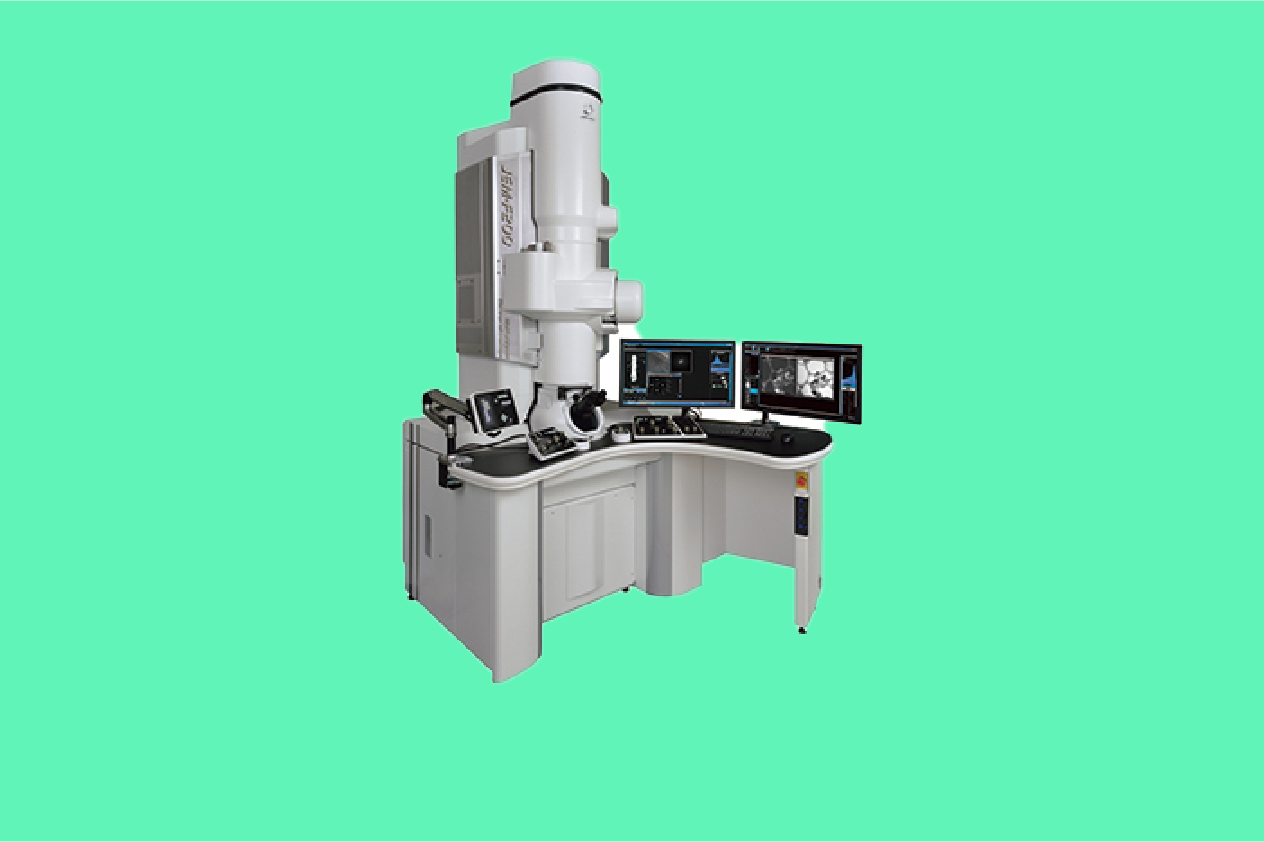
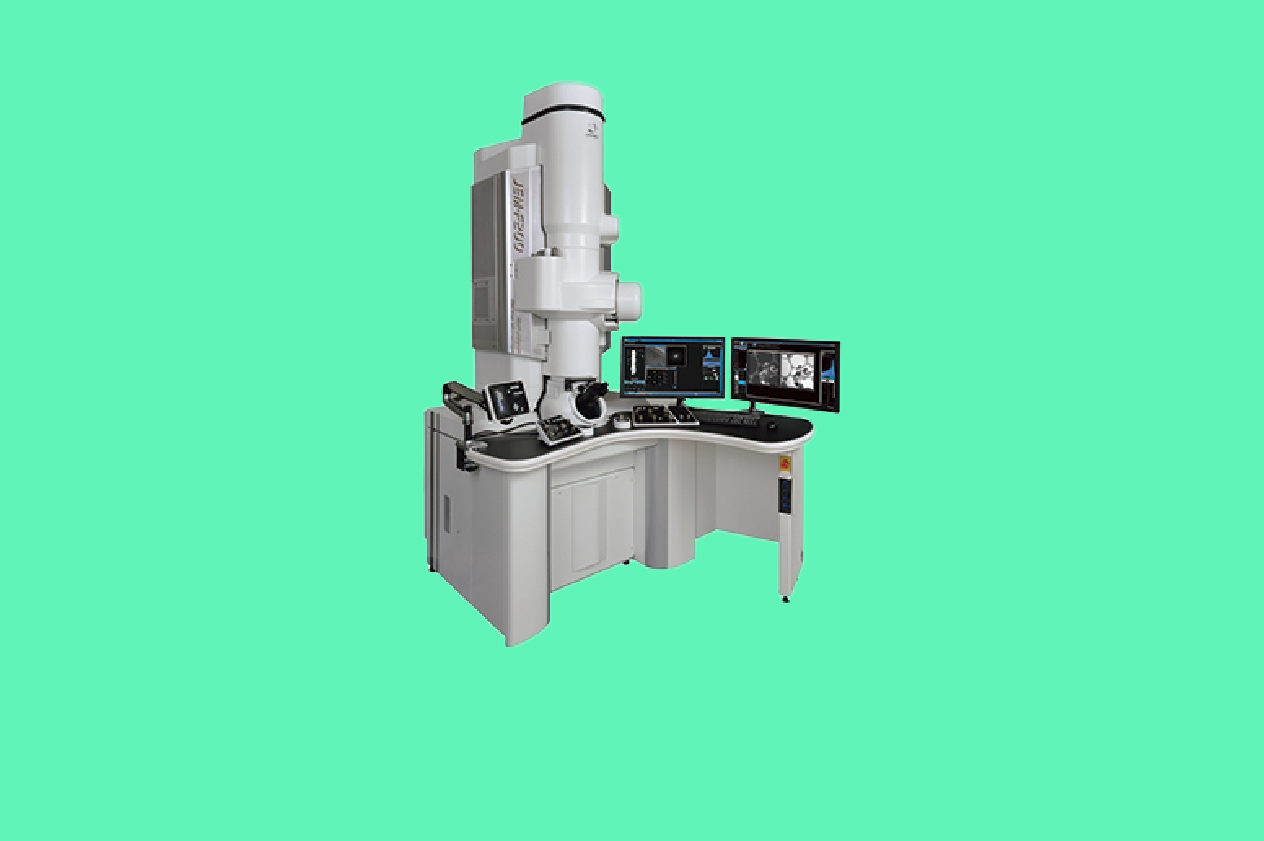
carousel nav bar modifications

Changed region(s): [[0.3085, 0.0618, 0.7097, 0.8038], [0.0, 0.9893, 1.0, 1.0]]

diff --git a/src/pages/lab-devices-page.js b/src/pages/lab-devices-page.js
@@ -78,8 +78,8 @@ const LabDevicesPage = () => {
           devicetwo="Transmission Electron Microscope"
           model="JEOL JSM 6510 lv"
           modeltwo="JEOL JEM-2100"
-          description="It is used to check sample surfaces and gives high-quality and clear stereoscopic image. The magnification capacity reaches 300000 times, it works under high discharge, and it can work under low discharge."
-          descriptiontwo="It is a microscopic technique in which a bundle of electrons is used that is executed through a super-thin sample, which leads to the appearance of an image that is subject to an amplification, enlargement and focus process on imaging devices such as fluorescent screens or a photographic film or to be measured"
+          description="It is used to inspect the surfaces of samples and give a high-quality and clear stereoscopic image. The magnification capacity reaches 300,000 times, it works under high vacuum, and it can work under low vacuum, to suit all physical, biological and industrial applications, mining, soil and material analysis, crystallography, nanoscale research, as well as tissues and surface structures."
+          descriptiontwo="It is a microscopic technique in which a beam of electrons is used that penetrates through an ultra-thin sample, which leads to the emergence of an image that is subjected to a process of amplification and magnification and focus on imaging devices such as fluorescent screens or on photographic film, or to be measured with a dual-device CCD camera. Many light microscopes are a result of the small wavelength of the electrons, which enables the user to examine the details of the sample accurately to the point of a row of atoms, with an enlargement of one and a half million times the actual size. The microscope is an essential analysis method in many branches of natural sciences, such as materials science, semiconductor research, and nanoscale research, in addition to biological sciences such as studying microorganisms such as viruses, bacteria, fungi and various tissue cells."
         />
 
         <LabDevices
@@ -89,8 +89,7 @@ const LabDevicesPage = () => {
           devicetwo="Vacuum Oven"
           model="RMC PT-XL PowerTome Ultramicrotome"
           modeltwo="Thermo Scientific Oven under Vacuum"
-          description="
-          For ultra-thin sectors (30 - 70 nanometers) we can scan them with an electron microscope"
+          description="Used to obtain ultra-thin sectors (30 - 70 nanometers) so that we can examine them with the electron microscope, in addition to making some thicker sectors (500 - 1000 nm) for samples prepared for the electron microscope to be examined by the optical microscope, which facilitates the process of follow-up and examination with the electron microscope."
           descriptiontwo="The vacuum furnace is used to dry different samples as it is much faster than conventional ovens."
         />
 
@@ -112,7 +111,10 @@ const LabDevicesPage = () => {
           devicetwo="Sputter Coating Evaporator"
           model="Ultrasonic Cleaner (XH-E412)"
           modeltwo="SPI Module - Sputter Carbon / Gold Coater"
-          description="It is an act of applying sound (usually ultrasound) to shaking and flipping sample components and speeding up"
+          description="Applying sound (usually ultrasound) to shaking and stirring the components of a sample and accelerating the breakdown of the particles in them. It is especially useful when it is not possible to stir the sample, as is the case with NMR tubes and it can also be used to provide the energy needed for some chemical reactions. It is also commonly used in nanotechnology for the homogeneous distribution of nanoparticles in liquids. It can also be used to induce crystallisations and help isolate small crystals.
+And in biological applications, it is often used to break down cell membranes and release cell contents. This process is called sonoporation.
+It is also a mechanism used to clean surfaces such as glasses and jewelry. It is also used to extract microfossils from rocks.
+"
           descriptiontwo="  Cover the sample with a thin layer of carbon or gold, or a mixture of gold and palladium with a thickness of 10-30 nanometers, after the drying processes of the samples to be examined in order to make them conductive to the electrical current because the examination of the samples is using electrons within the scanning electron microscope."
         />
 

diff --git a/src/components/ControlledHero.js b/src/components/ControlledHero.js
@@ -2,6 +2,7 @@ import React from 'react';
 import { useState } from 'react';
 import Carousel from 'react-bootstrap/Carousel';
 
+import './all.sass';
 import 'bootstrap/dist/css/bootstrap.min.css';
 
 function ControlledHero(props) {
@@ -13,7 +14,7 @@ function ControlledHero(props) {
 
   const img9 = props.img9;
   const img10 = props.img10;
-  const img11 = props.img11;
+  //const img11 = props.img11;
   const img = props.img;
   const img2 = props.img2;
   const img3 = props.img3;
@@ -28,20 +29,32 @@ function ControlledHero(props) {
       onSelect={handleSelect}
       indicators={true}
       keyboard={true}
-      interval={4000}
+      interval={5000000000}
       pause={false}
     >
       <Carousel.Item>
-        <img className="d-block w-100" src={img9} alt="Third slide" />
+        <img
+          className="d-block w-100 herocontroll"
+          src={img9}
+          alt="Third slide"
+        />
       </Carousel.Item>{' '}
       <Carousel.Item>
-        <img className="d-block w-100" src={img10} alt="Third slide" />
+        <img
+          className="d-block w-100 herocontroll"
+          src={img10}
+          alt="Third slide"
+        />
       </Carousel.Item>{' '}
-      <Carousel.Item>
+      {/* <Carousel.Item>
         <img className="d-block w-100" src={img11} alt="Third slide" />
-      </Carousel.Item>
+      </Carousel.Item> */}
       <Carousel.Item>
-        <img className="d-block w-100" src={img} alt="First slide" />
+        <img
+          className="d-block w-100 herocontroll"
+          src={img}
+          alt="First slide"
+        />
         {/* <Carousel.Caption>
           <h3 style={{ color: '#1c1c47' }}>
             Transmission Electron Microscope (TEM)
@@ -50,25 +63,53 @@ function ControlledHero(props) {
         </Carousel.Caption>*/}
       </Carousel.Item>
       <Carousel.Item>
-        <img className="d-block w-100" src={img2} alt="Third slide" />
+        <img
+          className="d-block w-100 herocontroll"
+          src={img2}
+          alt="Third slide"
+        />
       </Carousel.Item>
       <Carousel.Item>
-        <img className="d-block w-100" src={img3} alt="Third slide" />
+        <img
+          className="d-block w-100 herocontroll"
+          src={img3}
+          alt="Third slide"
+        />
       </Carousel.Item>
       <Carousel.Item>
-        <img className="d-block w-100" src={img4} alt="Third slide" />
+        <img
+          className="d-block w-100 herocontroll"
+          src={img4}
+          alt="Third slide"
+        />
       </Carousel.Item>
       <Carousel.Item>
-        <img className="d-block w-100" src={img5} alt="Third slide" />
+        <img
+          className="d-block w-100 herocontroll"
+          src={img5}
+          alt="Third slide"
+        />
       </Carousel.Item>
       <Carousel.Item>
-        <img className="d-block w-100" src={img6} alt="Third slide" />
+        <img
+          className="d-block w-100 herocontroll"
+          src={img6}
+          alt="Third slide"
+        />
       </Carousel.Item>
       <Carousel.Item>
-        <img className="d-block w-100" src={img7} alt="Third slide" />
+        <img
+          className="d-block w-100 herocontroll"
+          src={img7}
+          alt="Third slide"
+        />
       </Carousel.Item>
       <Carousel.Item>
-        <img className="d-block w-100" src={img8} alt="Third slide" />
+        <img
+          className="d-block w-100 herocontroll"
+          src={img8}
+          alt="Third slide"
+        />
       </Carousel.Item>
     </Carousel>
   );

diff --git a/src/components/ControlledCarousel.js b/src/components/ControlledCarousel.js
@@ -2,6 +2,7 @@ import React from 'react';
 import { useState } from 'react';
 import Carousel from 'react-bootstrap/Carousel';
 
+import './all.sass';
 import 'bootstrap/dist/css/bootstrap.min.css';
 
 import product1 from '../img/asset 1.png';
@@ -25,7 +26,7 @@ function ControlledCarousel() {
     >
       <Carousel.Item>
         <img
-          className="d-block w-100"
+          className="d-block w-100 herocontroll"
           src={product1}
           alt="Transmission Electron Microscope"
         />
@@ -38,7 +39,7 @@ function ControlledCarousel() {
       </Carousel.Item>
       <Carousel.Item>
         <img
-          className="d-block w-100"
+          className="d-block w-100 herocontroll"
           src={product2}
           alt="Scanning Electron Microscope"
         />
@@ -52,7 +53,7 @@ function ControlledCarousel() {
       </Carousel.Item>
       <Carousel.Item>
         <img
-          className="d-block w-100"
+          className="d-block w-100 herocontroll"
           src={product3}
           alt="Zeta Potential Analyzer"
         />
@@ -64,7 +65,7 @@ function ControlledCarousel() {
       </Carousel.Item>
       <Carousel.Item>
         <img
-          className="d-block w-100"
+          className="d-block w-100 herocontroll"
           src={product4}
           alt="Zoom Binocular Stereo Microscope"
         />

diff --git a/src/templates/index-page.js b/src/templates/index-page.js
@@ -15,7 +15,7 @@ import Servicess from '../components/Servicess';
 
 import carousel9 from '../img/09.jpg';
 import carousel10 from '../img/10.jpg';
-import carousel11 from '../img/11.jpg';
+//import carousel11 from '../img/11.jpg';
 import carousel1 from '../img/01.jpg';
 import carousel2 from '../img/02.jpg';
 import carousel3 from '../img/03.jpg';
@@ -39,7 +39,7 @@ export const IndexPageTemplate = ({
       <ControlledHero
         img9={carousel9}
         img10={carousel10}
-        img11={carousel11}
+        //img11={carousel11}
         img={carousel1}
         img2={carousel2}
         img3={carousel3}
@@ -115,7 +115,7 @@ export const IndexPageTemplate = ({
                 <ControlledCarousel />
                 <div className="column is-12 has-text-centered">
                   <Link className="btn" to="/lab-devices-page">
-                    Read more
+                    View All Devices
                   </Link>
                 </div>
                 <br />

diff --git a/src/pages/contact/index.js b/src/pages/contact/index.js
@@ -189,11 +189,9 @@ export default class Index extends React.Component {
                       </a>
                     </div>
                     <div className="column is-8">
-                      <p style={{ textAlign: 'right' }}>
-                        شارع الجمهورية - حرم جامعة المنصورة - كلية الزراعة -
-                        مبنى "و" (المبني الجديد) - الدور الأرضي – المنصورة –
-                        مصر. 35516
-                      </p>
+                      Al-Gomhoria Street - Mansoura University Campus - Faculty
+                      of Agriculture - W building (the new building) - Ground
+                      Floor - Mansoura - Egypt. 35516
                     </div>
                   </div>
                 </div>

diff --git a/src/pages/contact-ar/index.js b/src/pages/contact-ar/index.js
@@ -173,6 +173,13 @@ export default class Index extends React.Component {
                         البريد الإلكتروني
                       </a>
                     </div>
+                    <div className="column is-8">
+                      <p style={{ textAlign: 'right' }}>
+                        شارع الجمهورية - حرم جامعة المنصورة - كلية الزراعة -
+                        مبنى "و" (المبني الجديد) - الدور الأرضي – المنصورة –
+                        مصر. 35516
+                      </p>
+                    </div>
                   </div>
                 </div>
                 <div className="column">

diff --git a/src/templates/index-page-ar.js b/src/templates/index-page-ar.js
@@ -114,7 +114,7 @@ export const IndexPageArTemplate = ({
                 <ControlledCarousel />
                 <div className="column is-12 has-text-centered">
                   <Link className="btn" to="/lab-devices-ar">
-                    Read more
+                    View All Devices
                   </Link>
                 </div>
                 <br />

diff --git a/src/components/BlogRollEng.js b/src/components/BlogRollEng.js
@@ -72,7 +72,7 @@ export default () => (
       query BlogRollEngQuery {
         allMarkdownRemark(
           sort: { order: DESC, fields: [frontmatter___date] }
-          filter: { frontmatter: { tags: { eq: "vistseng" } } }
+          filter: { frontmatter: { templateKey: { eq: "blog-post" } } }
         ) {
           edges {
             node {

diff --git a/src/components/Navbar.js b/src/components/Navbar.js
@@ -60,7 +60,6 @@ const Navbar = class extends React.Component {
               className={`navbar-burger burger' ${this.state.navBarActiveClass}`}
               data-target="navMenu"
               onClick={() => this.toggleHamburger()}
-              style={{ marginLeft: '60vw' }}
             >
               <span />
               <span />

diff --git a/src/components/NavbarAr.js b/src/components/NavbarAr.js
@@ -60,7 +60,6 @@ const Navbar = class extends React.Component {
               className={`navbar-burger burger' ${this.state.navBarActiveClass}`}
               data-target="navMenu"
               onClick={() => this.toggleHamburger()}
-              style={{ marginLeft: '60vw' }}
             >
               <span />
               <span />

diff --git a/src/components/all.sass b/src/components/all.sass
@@ -36,6 +36,10 @@ $black: #2b2523
     margin-bottom: 1.5rem
     margin-top: 0
 
+.herocontroll 
+  object-fit: cover;
+  height: 700px;
+
 // Helper Classes
  
 
@@ -154,3 +158,5 @@ $menu-label-color: white
     text-align: center;
     max-width: 70%;
     margin: 0 0 1em;
+
+

diff --git a/src/components/hero.css b/src/components/hero.css
@@ -1,0 +1,4 @@
+.herocontroll {
+  object-fit: cover;
+  height: 700px;
+}
